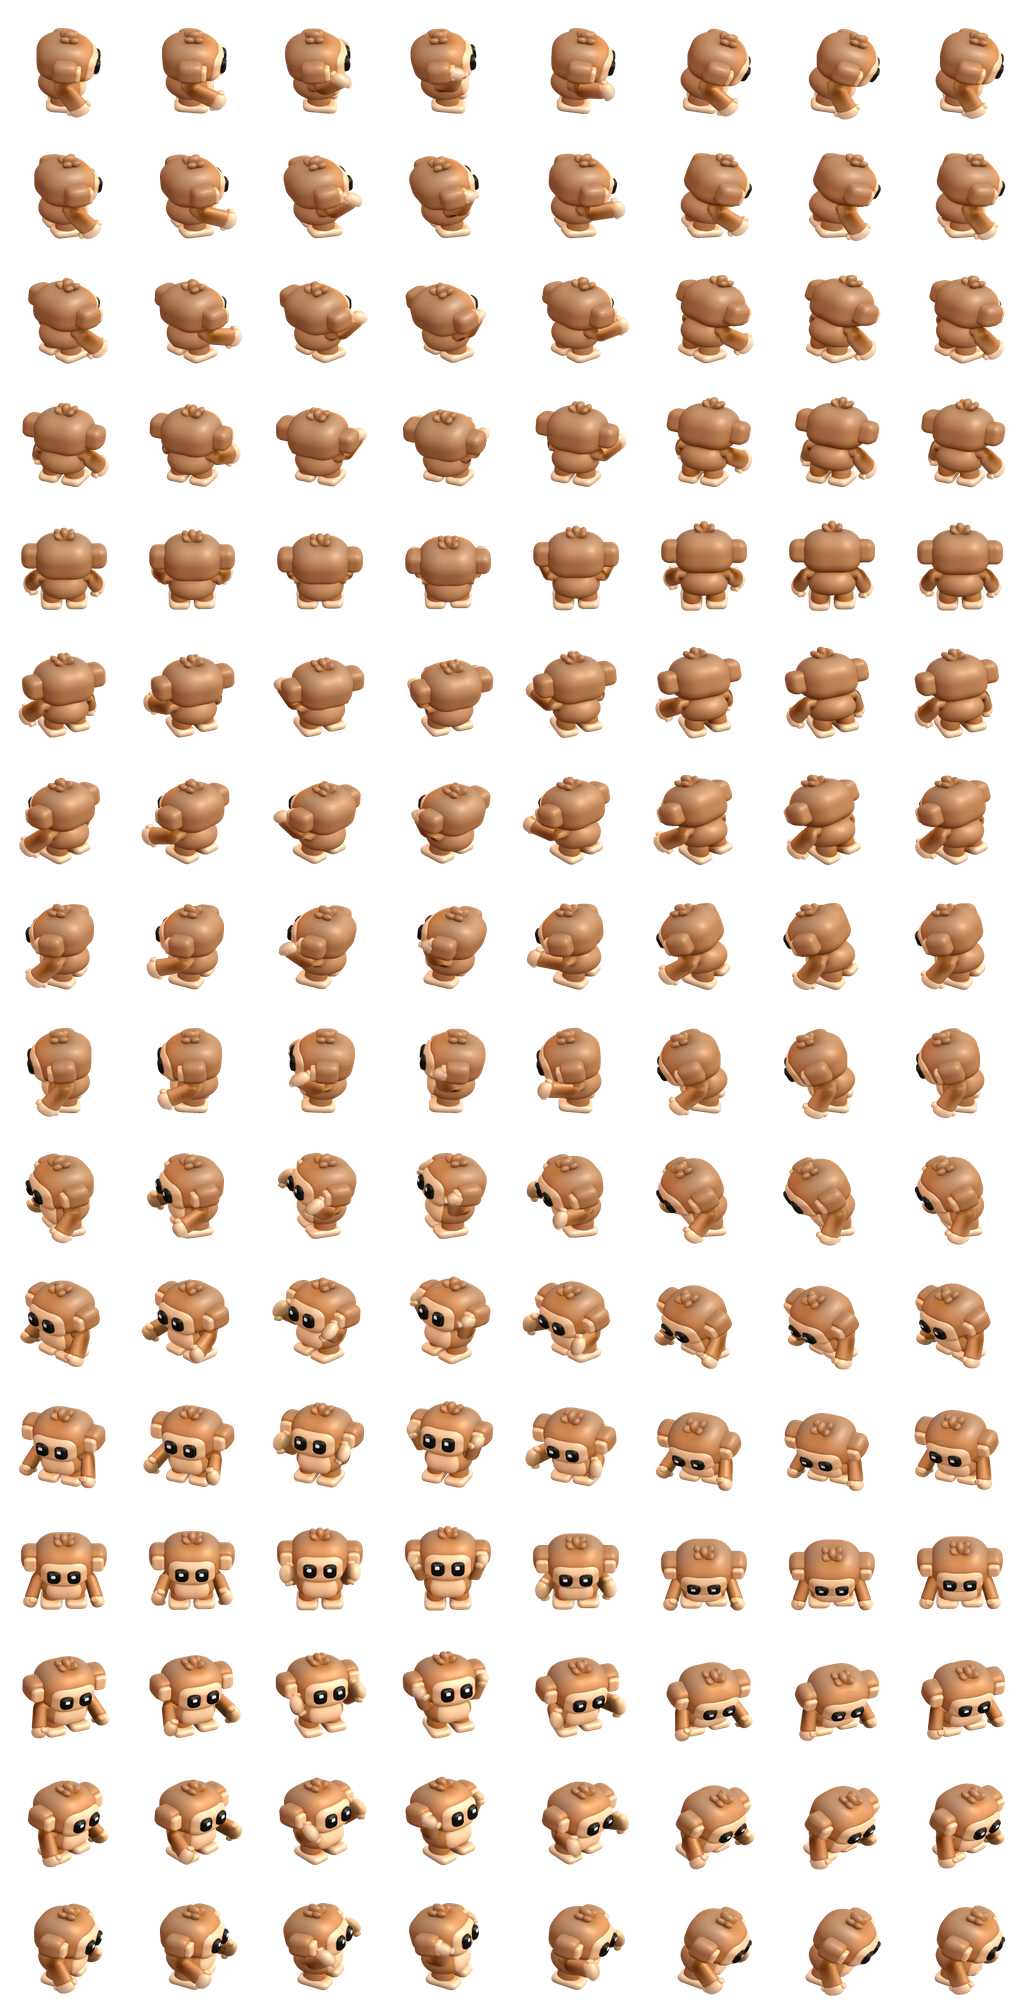
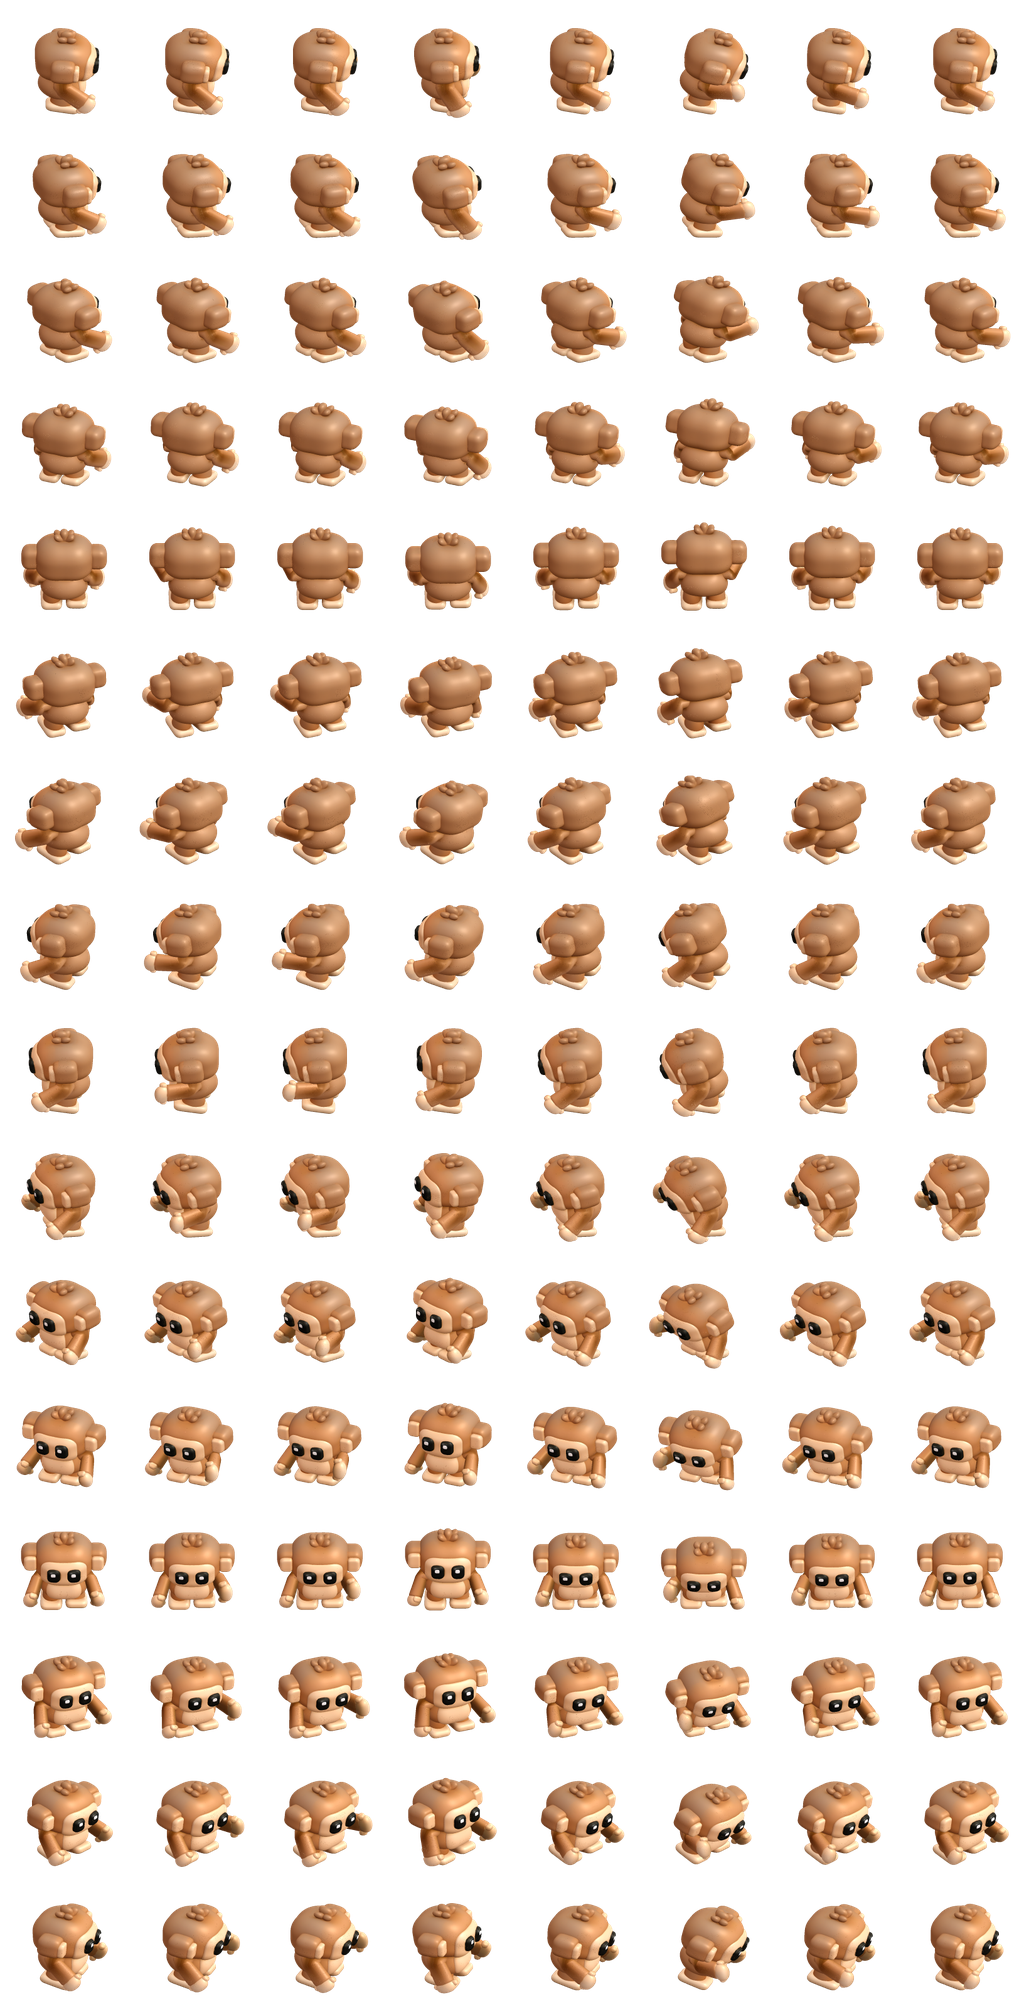
feat(player): throw punches when gathering

diff --git a/artifacts/vox/player/player_gather.py b/artifacts/vox/player/player_gather.py
@@ -1,10 +1,10 @@
-# player_gather.py — gather sheet of the player (monkey.py's monkey): striking with both hands.
-# One row per facing, in the walk sheet's order and count; FRAMES columns of one blow, a loop: the
-# figure stands ready with its hands before it, swings both arms up over its head leaning back a
-# little, brings them down together onto what is in front of it (the blow lands at STRIKE_AT of the
-# cycle, which is HARVEST_STRIKE_AT / HARVEST_STRIKE_TICKS in iso::harvest), follows through
-# bent over it, and straightens back to ready. The feet keep still, so the engine draws it with the
-# walk sheet's cell and the feet never move.
+# player_gather.py — gather sheet of the player (monkey.py's monkey): throwing punches.
+# One row per facing, in the walk sheet's order and count; FRAMES columns of one blow, a loop of a
+# one-two: the figure stands in guard, fists up before it, one foot forward; throws a quick left
+# jab straight out and pulls it back; then leans in behind a right cross, which is the blow that
+# lands (at STRIKE_AT of the cycle, which is HARVEST_STRIKE_AT / HARVEST_STRIKE_TICKS in
+# iso::harvest), and comes back to guard. The feet keep still, so the engine draws it with the walk
+# sheet's cell and the feet never move.
 #
 # It reuses the climb's machinery (player_climb.py): a pose is the lean of the body and the swing
 # of each arm, hand, leg and foot, eased between key poses.
@@ -20,15 +20,17 @@ import math
 import monkey
 
 FRAMES = 8          # columns of one blow
-STRIKE_AT = 0.6     # share of the cycle at which the hands land
+STRIKE_AT = 0.6     # share of the cycle at which the cross lands
 
-# (lean, arm l, arm r, hand l, hand r, leg l, leg r, foot l, foot r), as in player_climb.py.
-READY = (6, -46, -42, -24, -24, -6, 4, 0, 0)
+# (lean, arm l, arm r, hand l, hand r, leg l, leg r, foot l, foot r), as in player_climb.py; a
+# negative arm swing takes the fist forward, -90 straight out at the shoulder's height.
+READY = (4, -66, -60, -40, -40, -12, 10, 4, 0)          # guard: fists up, left foot forward
 KEYS = [
-    (0.00, READY),                                      # ready, hands before the chest
-    (0.38, (-6, -168, -164, 28, 28, -4, 6, 0, 0)),     # wound up, both hands over the head
-    (STRIKE_AT, (22, -74, -70, -34, -34, -12, 10, 6, 0)),  # the blow: arms down and forward
-    (0.78, (24, -52, -48, -30, -30, -12, 10, 6, 0)),   # following through, bent over it
+    (0.00, READY),
+    (0.20, (8, -112, -56, 0, -40, -12, 10, 4, 0)),      # the jab: left fist straight out
+    (0.40, (-2, -64, -30, -40, -40, -12, 10, 4, 0)),    # jab back, the right drawn back to load
+    (STRIKE_AT, (18, -60, -118, -40, 0, -14, 14, 4, 6)),  # the cross lands, leaning in behind it
+    (0.80, (8, -64, -80, -40, -20, -12, 12, 4, 2)),     # pulling the right back
     (1.00, READY),
 ]
 
